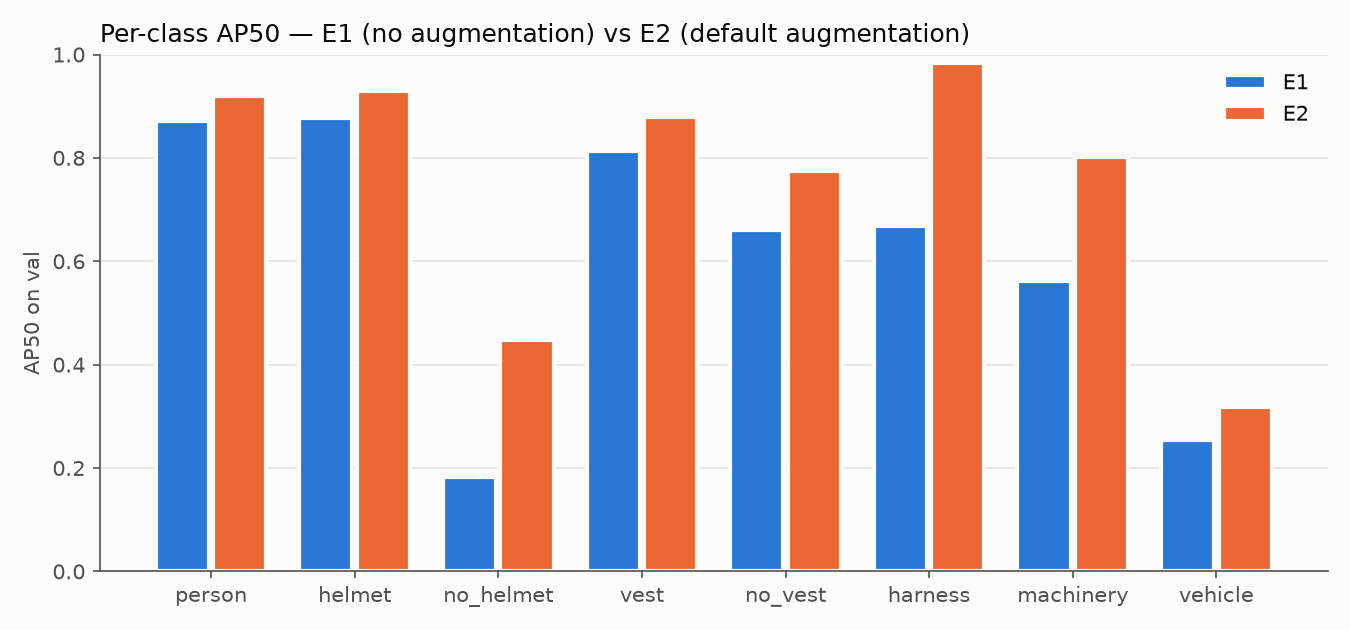
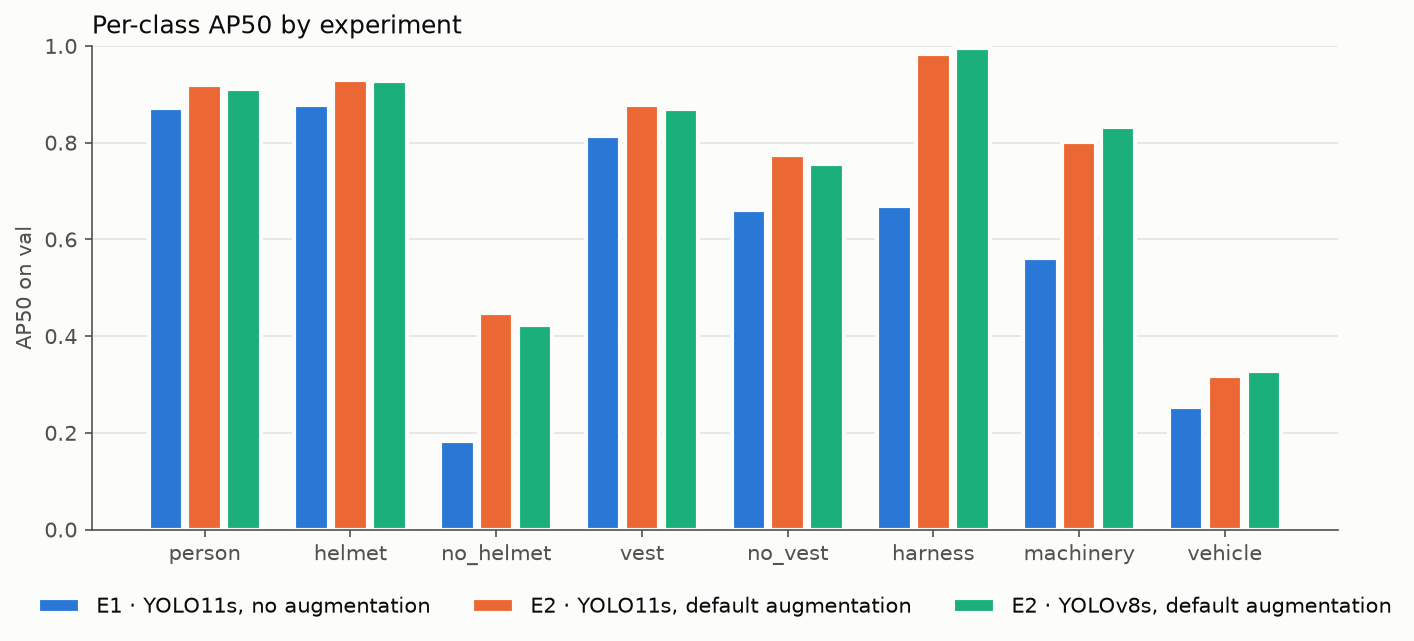
docs(reports): YOLO11s vs YOLOv8s comparison; fix E2 epoch count
Same data, config and seed as E2, only the architecture changes:
YOLO11s mAP50 0.756 / mAP50-95 0.499 vs YOLOv8s 0.755 / 0.494. YOLO11s
has 15% fewer parameters and is ~22% faster on CPU (YOLOv8s ~2 ms faster
on GPU), so YOLO11s stays the baseline.

Also corrects the summary and release notes: E2 early-stopped at epoch 90
rather than running all 100 epochs.

diff --git a/reports/phase1/README.md b/reports/phase1/README.md
@@ -32,11 +32,26 @@
 | E1 | 公开数据，关闭全部内置增广 | 0.611 | 0.350 | 0.690 | 0.630 |
 | E2 | 公开数据 + Ultralytics 默认传统增广 | **0.756** | **0.499** | 0.825 | 0.711 |
 
-训练配置见 [`configs/baseline.yaml`](../../configs/baseline.yaml)（YOLO11s，640px，100 epoch，seed 0）。E1 在第 42 个 epoch 早停，E2 跑满 100 个 epoch。逐类结果：[`per_class_ap.csv`](per_class_ap.csv)
+训练配置见 [`configs/baseline.yaml`](../../configs/baseline.yaml)（YOLO11s，640px，最多 100 epoch、patience 20，seed 0）。E1 在第 42 个 epoch 早停，E2 在第 90 个 epoch 早停。逐类结果：[`per_class_ap.csv`](per_class_ap.csv)
 
 ![逐类 AP50：E1 vs E2](per_class_ap.png)
 
-混淆矩阵：[E1](e1_confusion_matrix.png) ｜ [E2](e2_confusion_matrix.png)
+混淆矩阵：[E1](e1_confusion_matrix.png) ｜ [E2](e2_confusion_matrix.png) ｜ [E2 · YOLOv8s](e2_yolov8s_confusion_matrix.png)
+
+### 模型选型对比：YOLO11s vs YOLOv8s
+
+与 E2 使用完全相同的数据、配置与随机种子，唯一的变量是模型结构（`python -m telecomsafe.train --exp e2 --model yolov8s.pt --name e2_yolov8s`）。
+
+| 模型 | mAP50 | mAP50-95 | Precision | Recall | 参数量 | 权重 | GPU 推理* | CPU 推理* |
+|---|---|---|---|---|---|---|---|---|
+| **YOLO11s（E2，采用）** | **0.756** | **0.499** | 0.825 | 0.711 | 9.4 M | 19.2 MB | 约 15 ms | **约 100 ms** |
+| YOLOv8s | 0.755 | 0.494 | 0.813 | 0.736 | 11.1 M | 22.5 MB | **约 13 ms** | 约 128 ms |
+
+\* RTX 4070 SUPER / 本机 CPU，PyTorch 单张推理，含前后处理，200 张验证图的平均值（GPU 两轮、交换顺序测量，结果一致）。YOLOv8s 在第 78 轮早停。
+
+- **精度打平**：mAP50 相差 0.001、mAP50-95 相差 0.005，在单个随机种子下属于正常波动。逐类看互有高低：YOLOv8s 在工程机械上高约 0.03，YOLO11s 在未戴安全帽、未穿反光衣上高约 0.02。
+- **YOLO11s 更小、CPU 上更快**：参数少 15%（9.43 M 对 11.14 M），CPU 推理快约 22%，更适合没有 GPU 的现场部署。GPU 上 YOLOv8s 快约 2 ms，因为 YOLO11 的注意力模块在 PyTorch 下开销略大；两者都远低于 Demo 3 秒的要求。
+- **结论**：保留 YOLO11s 作为 baseline，不更换。YOLOv8s 的结果同时说明，阶段一的结论不依赖于特定的模型结构。
 
 ## Demo v1
 

diff --git a/releases/phase1-baseline-v1.md b/releases/phase1-baseline-v1.md
@@ -30,7 +30,7 @@ The validation split comes from the same sources as the training data, so these 
 
 ## Training
 
-- YOLO11s, 640 px, seed 0, `configs/baseline.yaml`; E1 early-stopped at epoch 42, E2 ran 100 epochs.
+- YOLO11s, 640 px, seed 0, `configs/baseline.yaml`; up to 100 epochs with patience 20; E1 early-stopped at epoch 42, E2 at epoch 90.
 - 5,537 images after perceptual-hash de-duplication from Construction Site Safety (Roboflow v30), Ultralytics Construction-PPE, body_harness, construction safety v2 and APD; missing classes filled with teacher pseudo-labels (18% of boxes). Sources and licences: `data/README.md`.
 
 ## Licences
